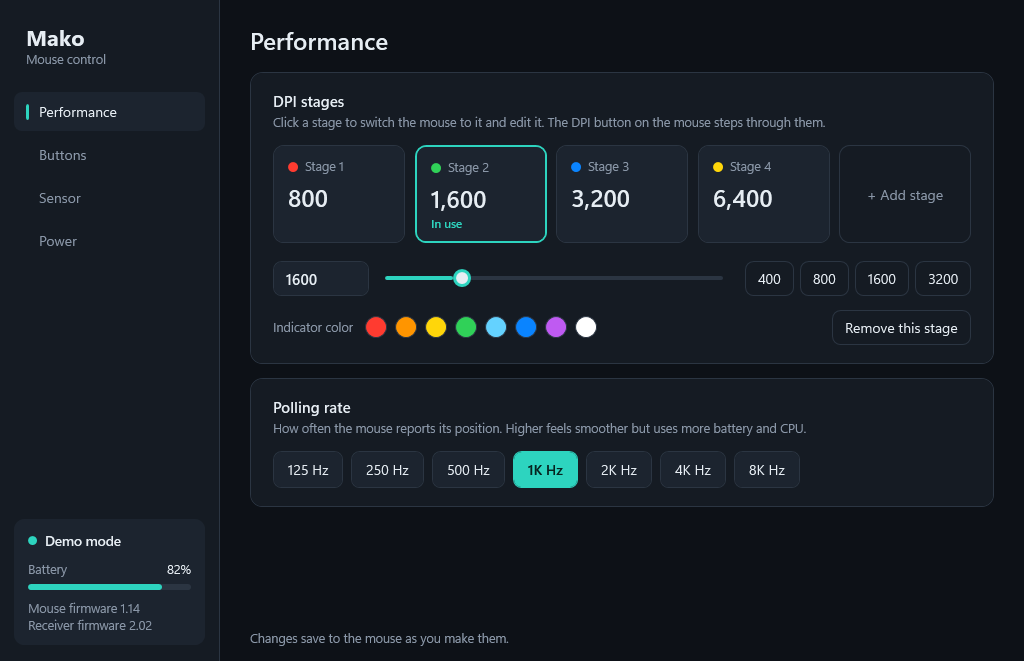
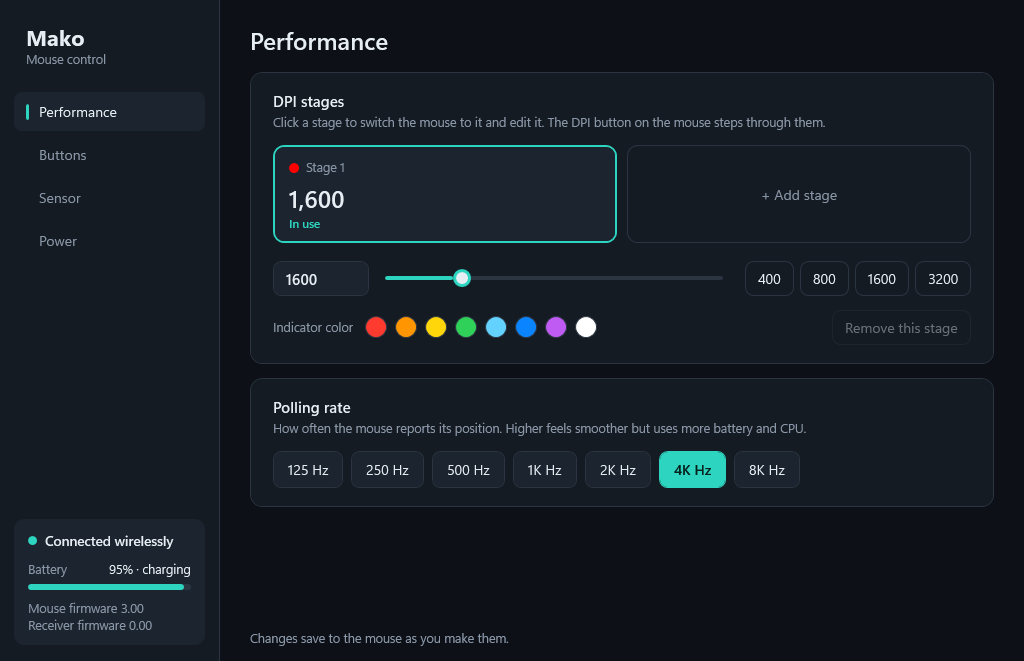
Find the mouse on whichever connection it answers
A cabled mouse and its receiver appear as separate devices; Mako used to
open the first one and stop. It now checks each and keeps rescanning
until one answers. Also label cable vs wireless correctly.

diff --git a/MainWindow.xaml.cs b/MainWindow.xaml.cs
@@ -80,11 +80,20 @@ public partial class MainWindow : Window
         _ticking = true;
         try
         {
-            if (_link is not { Alive: true })
+            // Until a mouse is answering, keep rescanning: it may be on the cable, on the receiver, or switch between them.
+            if (_link is not { Alive: true } || _m is not { Online: true })
             {
                 _link?.Dispose();
-                _link = _demo ? new DemoLink() : HidLink.TryOpen();
-                _m = _link == null ? null : new Mouse(_link);
+                _link = null; _m = null;
+                List<ILink> found = _demo ? [new DemoLink()] : [.. HidLink.OpenAll()];
+                foreach (var l in found)
+                {
+                    if (_m is { Online: true }) { l.Dispose(); continue; }
+                    var candidate = new Mouse(l);
+                    bool online = await candidate.CheckOnline();
+                    if (online || _link == null) { _link?.Dispose(); _link = l; _m = candidate; }
+                    else l.Dispose();
+                }
                 if (_link != null) _link.StatusChanged += () => Dispatcher.BeginInvoke(async () => { if (_m is { Online: true } m && await m.Load()) Populate(); });
             }
             if (_m is { } mouse)
@@ -119,14 +128,14 @@ public partial class MainWindow : Window
         {
             SetState("Warn", "Mouse asleep or off");
             OfflineTitle.Text = "Waiting for the mouse";
-            OfflineBody.Text = "The receiver is connected, but the mouse isn't answering. Move it or switch it on — Mako picks it up within a couple of seconds.";
+            OfflineBody.Text = "The receiver is connected, but the mouse isn't answering. Move it, switch it on, or plug in its cable — Mako picks it up within a couple of seconds.";
         }
         else if (!m!.Verified)
         {
             SetState("Warn", "Connected, read-only");
             Status("This mouse stores its settings in a way Mako doesn't recognize, so nothing will be written to it.", true);
         }
-        else SetState("Accent", _demo ? "Demo mode" : "Connected");
+        else SetState("Accent", _demo ? "Demo mode" : m.ReceiverFirmware == "" ? "Connected by cable" : "Connected wirelessly");
 
         bool showBattery = ready && m!.Battery >= 0;
         BatteryBox.Visibility = showBattery ? Visibility.Visible : Visibility.Collapsed;

diff --git a/Hid.cs b/Hid.cs
@@ -32,8 +32,10 @@ public sealed class HidLink : ILink
 
     HidLink(FileStream fs, string title) { _fs = fs; Title = title; _ = ReadLoop(); }
 
-    public static HidLink? TryOpen()
+    /// <summary>Opens every matching device: a cabled mouse and its wireless receiver each show up as their own.</summary>
+    public static List<HidLink> OpenAll()
     {
+        var links = new List<HidLink>();
         foreach (var path in DevicePaths())
         {
             if (!path.Contains($"vid_{Vid:x4}", StringComparison.OrdinalIgnoreCase)) continue;
@@ -48,9 +50,9 @@ public sealed class HidLink : ILink
             if (h.IsInvalid) continue;
             var pidAt = path.IndexOf("pid_", StringComparison.OrdinalIgnoreCase);
             var pid = pidAt >= 0 ? path.Substring(pidAt + 4, 4).ToUpperInvariant() : "????";
-            return new HidLink(new FileStream(h, FileAccess.ReadWrite, 0, true), $"3554:{pid}");
+            links.Add(new HidLink(new FileStream(h, FileAccess.ReadWrite, 0, true), $"3554:{pid}"));
         }
-        return null;
+        return links;
     }
 
     async Task ReadLoop()

diff --git a/Mouse.cs b/Mouse.cs
@@ -59,7 +59,7 @@ public sealed class Mouse(ILink link)
                    && Enumerable.Range(0, DpiCount).All(i => Quad(ADpi + 4 * i))
                    && Enumerable.Range(0, KeyCount).All(i => Quad(AKeys + 4 * i));
         if (await link.Xfer(CmdVersion) is { } v) MouseFirmware = $"{v[0]:X}.{v[1]:X2}";
-        if (await link.Xfer(CmdDongleVersion) is { } d) ReceiverFirmware = $"{d[0]:X}.{d[1]:X2}";
+        if (await link.Xfer(CmdDongleVersion) is { } d && (d[0] | d[1]) != 0) ReceiverFirmware /* a cabled mouse answers with zeros */ = $"{d[0]:X}.{d[1]:X2}";
         await ReadBattery();
         return Loaded = true;
     }
